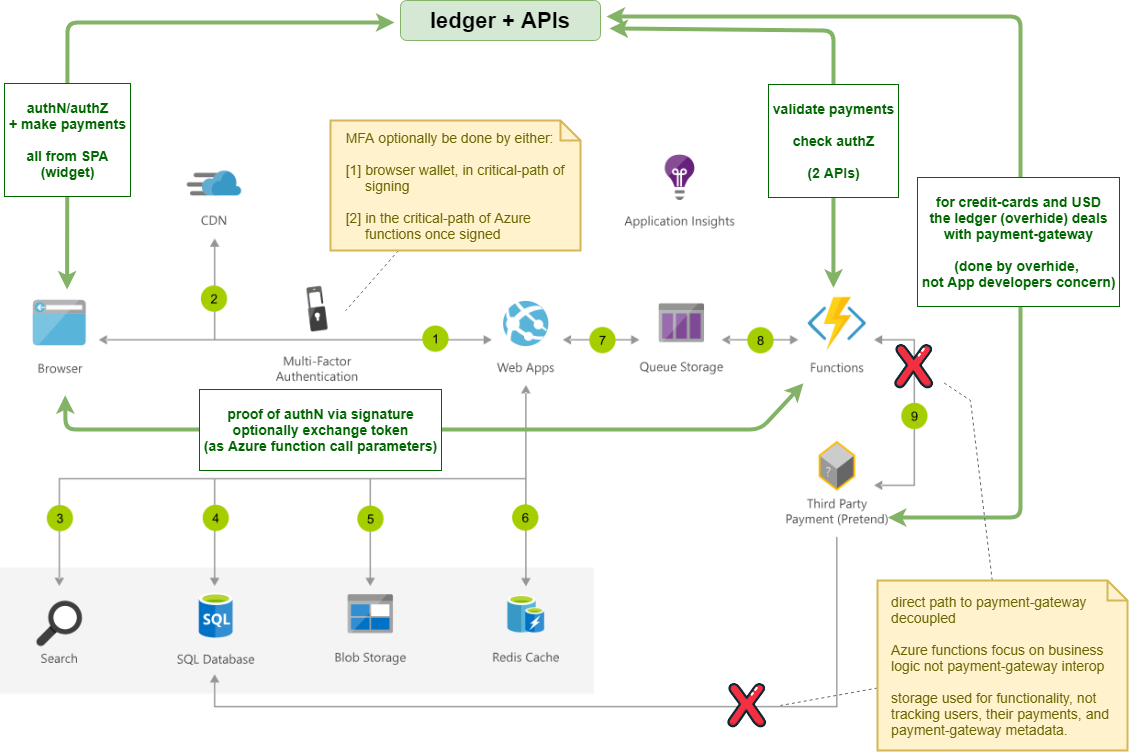
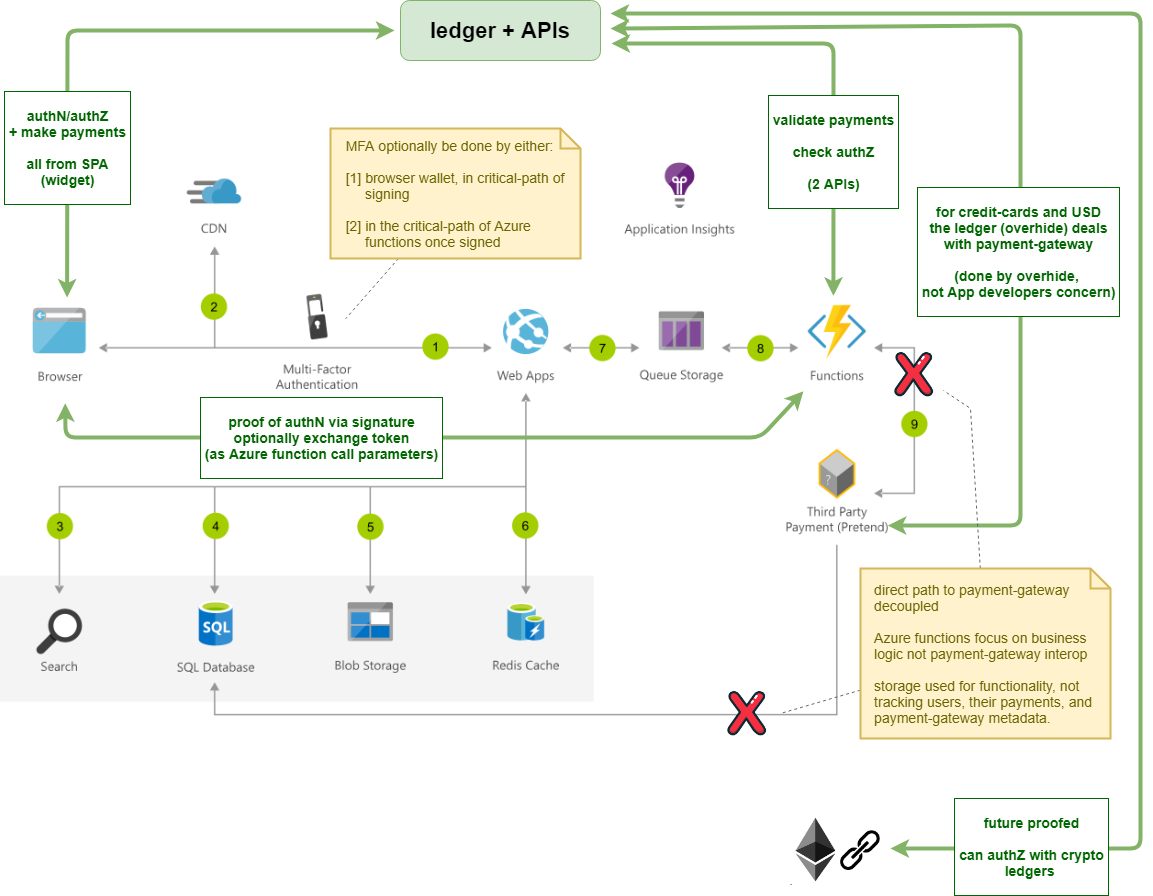
Fix up documentation

diff --git a/README.md b/README.md
@@ -18,9 +18,16 @@ The gist is to take public ledger authorization aspects from blockchains such as
 
 This is an open-sourced demo of this "[Ledger Based Authorizations](https://overhide.io/)" concept, leveraging the open-source "[ledgers.js](https://www.npmjs.com/package/ledgers.js)" library, to inspire that solutions with [Azure Static Web Apps](https://azure.microsoft.com/en-us/services/app-service/static/#overview) need not be made available freely without authorizations, or require AAD onboarding and overhead of payment-gateways. They can be simple public for-profit offerings. The intent is to give developers a path-forward on how they can make a profit from their creations.
 
-If you consider [a standard scalable e-commerce setup](https://docs.microsoft.com/en-us/azure/architecture/solution-ideas/articles/scalable-ecommerce-web-app), it mandates that Web app developers integrate with third-party payment-gateways themselves.  Here, we're offering a simple path forward without that burden.  Consider the green annotations below, applied on top of the standard model:
+If you consider [a standard scalable e-commerce setup](https://docs.microsoft.com/en-us/azure/architecture/solution-ideas/articles/scalable-ecommerce-web-app), it suggests that Web app developers integrate with third-party payment-gateways themselves.  Here, we're offering a simple path forward without that burden.  Not requisite--but a nice side benefit--it's a path forward that future proofs for payments with cryptos.  Consider the green annotations below, applied on top of the standard model:
 
 ![diagram](https://github.com/microsoft/frontend-appsells/blob/main/docs/arch.png?raw=true)
+
+Some terms:
+
+- ledger -- public table of payments between anonymized entities
+- authN -- authentication (I am who I say I am)
+- authZ -- authorization (I am allowed to do as much as I can prove I paid for)
+- SPA -- Single Page Application; thick client Web application in the browser
 
 ## This Repo
 
